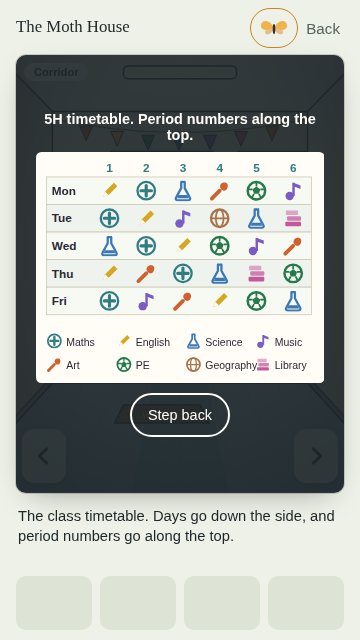
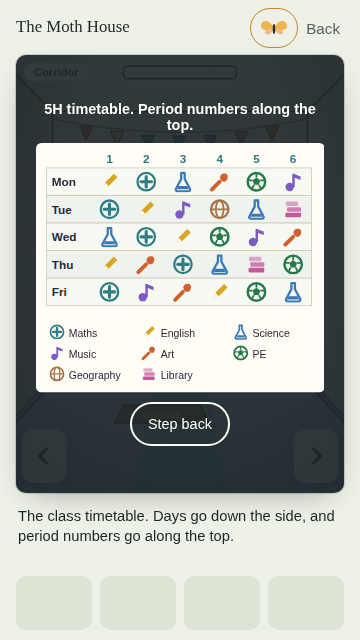
Space the timetable key; record the agreed art style and Nutmeg in the notes
Claude-Session: https://claude.ai/code/session_01Tpq9p1pV6JyvDnCWhBvDet

Changed region(s): [[0.0917, 0.1562, 0.9167, 0.7188]]

diff --git a/next/index.html b/next/index.html
@@ -910,7 +910,7 @@ table.tt td.day{font-weight:700;text-align:left;background:#eaf1ee}
 <!-- close-up: the timetable -->
 <div class="overlay closeup" id="ttUI" hidden>
   <p class="otitle">5H timetable. Period numbers along the top.</p>
-  <svg class="ttz" viewBox="0 0 220 176" aria-label="The class timetable, with a picture for each lesson"><rect width="220" height="176" rx="4" fill="#fffdf6"/><g id="tt"></g></svg>
+  <svg class="ttz" viewBox="0 0 220 190" aria-label="The class timetable, with a picture for each lesson"><rect width="220" height="190" rx="4" fill="#fffdf6"/><g id="tt"></g></svg>
   <button class="ob" data-close>Step back</button>
 </div>
 
@@ -1132,7 +1132,7 @@ $('ttWall').innerHTML = ttGrid(60, 148, 30, 26, 17, 13, 8);
 function openTimetable(){
   let key = '';
   Object.values(SUBJECT).forEach(([id,col,name],i) => {
-    const x = 8 + (i%4)*53, y = 138 + Math.floor(i/4)*18;
+    const x = 10 + (i%3)*70, y = 138 + Math.floor(i/3)*16;
     key += `<use href="#${id}" x="${x}" y="${y}" width="12" height="12" style="color:${col}"/><text x="${x+15}" y="${y+9.5}" font-size="8" fill="#2b2836" class="lbl">${name}</text>`;
   });
   $('tt').innerHTML = ttGrid(8, 6, 34, 28, 21, 16, 9) + key;

diff --git a/STORY.md b/STORY.md
@@ -50,6 +50,20 @@ The owner's rule for every room in the game:
 - **Close-ups** zoom into one object, such as reading a postcard or working a lock, with a button to step back.
 - A small label on the scene always says which room the player is in.
 
+## Visual style (agreed 28 Sept 2026)
+
+Drawn in code as SVG, to a polished flat-illustration standard. Rules for every wall:
+- **A box in one-point perspective:** ceiling, side walls, back wall and a floor band, drawn by the engine; the horizon sits low so the floor is a band, not a field.
+- **Ink outlines** on everything (heavier at the front), a shadow side on every object, cast shadows, one light source per wall, paper grain and a vignette over the whole picture.
+- **Lived in:** every room has ordinary clutter and life (pictures, plants, pets, shelves), which also gives clues places to hide.
+- **Everything tappable breathes** with a soft golden glow, the key item sparkles, and no tap target is smaller than a fingertip. Doors and hidden paper moths don't glow.
+- **The bottom corners of every wall stay clear** for the turn arrows, which sit in the floor band.
+- **Side-wall items** are angled gently and zoom when tapped.
+- **Clues are pictures where possible:** the timetable uses a coloured icon per subject, with a key in the close-up.
+- **Palette:** Singapore bright and tidy (cream and mint walls, pale wood, teal and purple accents, warm afternoon sun); Enfield and Trent Park in long golden evenings (deeper greens and browns); the Moth House in dusk blues with lantern glow.
+- **Type:** Caprasimo for titles, Atkinson Hyperlegible for game text, Caveat for handwriting.
+- **Clocks and details must match the story:** the classroom clock reads twenty to three, before the last bell at three.
+
 ## Characters
 
 - **Mary (10).** Notices patterns, reads everything.
@@ -58,7 +72,8 @@ The owner's rule for every room in the game:
 - **Nana.** Grandmother in Enfield. Always just "Nana". Warm, knows more than she says. Found the Moth House as a girl; the faded portrait in the Moth House is her.
 - **Jedi.** Grandfather in Enfield. Cheeky but lazy: always "just resting his eyes", bargains with biscuits, and takes the credit for everything the children do. Secretly on their side.
 - **Mum and Dad.** At home in Singapore. Each child sends them a postcard at the end of each stage.
-- **The moth.** A gentle guide whose wings glow like a night light. Gives hints. **TO DECIDE:** its name, or let each player name it.
+- **The moth.** A gentle guide whose wings glow like a night light. Gives hints from Enfield onwards (the Hint button). **TO DECIDE:** its name, or let each player name it.
+- **Nutmeg.** Class 5H's hamster. In Mary's school stage he is the hint-giver: tapping his cage gives the same three-step hints as the Hint button. Rule 3 of the class rules: feed Nutmeg once a day, never twice.
 - **The Moth House.** Appears at dusk to people who are looking. Each moth-light brought home wakes a room.
 
 ## The journey
@@ -86,8 +101,8 @@ Decided on 28 Sept 2026 (the owner left it to Claude):
 
 ### Stage 1: Last day of school — Knightsbrook International School — difficulty 3
 Built as a playable draft in `next/index.html`. Three rooms:
-- **Classroom 5H** (square, 4 views): whiteboard and Mr Hollis's desk; window and the class bean plants (quiet wall); door to the corridor and coat pegs; the class timetable above Mary's desk. She starts facing her desk.
-- **Corridor** (square, 4 views): the lockers (Mary's is the purple one); the library doors; the notice board with a bonus riddle card; the door back to 5H.
+- **Classroom 5H** (square, 4 views): whiteboard, supplies cupboard and Mr Hollis's desk; the window wall with the bean plants and a plane in the sky; door to the corridor, coat pegs and the lost-property box; the timetable wall with the class's paintings, a clock, a bookshelf, Nutmeg's cage on a cabinet, a plant, Mary's desk with the envelope, and her bag. Class rules and a world map hang on the side walls and zoom when tapped. She starts facing her desk.
+- **Corridor** (square, 4 views): the lockers (Mary's is the purple one) with certificates above and a bench; the library doors with a water fountain and the trophy cabinet; the notice board (summer fair, swimming gala, lost cat Biscuit, house points) with the bonus riddle card; the doors to 5H and 5K under bunting.
 - **Library** (long, 6 views): Science shelf and globe; Music shelf with a gap; window and beanbags (quiet wall); Art shelf and the returns trolley; Stories shelf; doors to the corridor and the librarian's desk ("Back soon!").
 
 Mr Hollis is Mary's (invented) teacher. Everyone else is at the goodbye party in the playground.

diff --git a/CLAUDE.md b/CLAUDE.md
@@ -32,7 +32,7 @@ The owner is a non-technical but AI-savvy builder working from a Chromebook. Exp
 - `manifest.webmanifest` — app name, colours, icons.
 - `sw.js` — network-first service worker: players get the latest version when online; the last version still works offline. Keep this behaviour.
 - `icon-192.png`, `icon-512.png` — moth icon (also used as maskable).
-- `next/index.html` — the children's version being built, not yet what players get. It opens on the choose-a-child screen (with the fiction notice under "About this game"). Mary's story page lists her stages; stage 1 (last day of school) and stage 2 (packing day) are playable as rough drafts; Elliot and Zaina are "coming soon". Each stage is one object in `STAGES` (for example `STAGE_SCHOOL`) with its `rooms` (each room's views in turning order), `doors` (door → room and view you arrive at), `start`, `items`, `uses`, `fresh` state, `draw`, `act`, `hints` and `ending`; the engine below them handles turning, doors, the inventory, hints and endings. Each view is a `<g class="view" id="v-…">` in the one SVG; hotspot `data-id`s must be unique across all stages (school ones start with `s_`). Close-ups are overlays inside `.stage`. Keep hotspots away from the middle of the left and right edges, where the turn arrows sit. Finished stages are saved per child in localStorage (`mothhouse.next.v1`). It doesn't register the service worker. When the launch rooms are ready, it replaces the live game.
+- `next/index.html` — the children's version being built, not yet what players get. It opens on the choose-a-child screen (with the fiction notice under "About this game"). Mary's story page lists her stages; stage 1 (last day of school, new art) and stage 2 (packing day, old art) are playable; Elliot and Zaina are "coming soon". Each stage is one object in `STAGES` (for example `STAGE_SCHOOL`) with its `rooms` (each room's views in turning order), `doors` (door → room and view you arrive at), `start`, `items`, `uses`, `fresh` state, `draw`, `act`, `hints` and `ending`; the engine below them handles turning, doors, the inventory, hints and endings. Each view is a `<g class="view" id="v-…">` in the one SVG; hotspot `data-id`s must be unique across all stages (school ones start with `s_`). Close-ups are overlays inside `.stage`. Keep hotspots away from the middle of the left and right edges, where the turn arrows sit. Finished stages are saved per child in localStorage (`mothhouse.next.v1`). It doesn't register the service worker. When the launch rooms are ready, it replaces the live game.
 - `STORY.md` — the story plan: characters, places, every scene with its puzzle map, rules for every chapter, open decisions.
 - `.well-known/assetlinks.json`, `.nojekyll` — Android app verification (see Launch status).
 
@@ -55,7 +55,7 @@ Interaction model: tap an object to look; tap an inventory item to select it, th
 
 ## Visual style
 
-The live room uses the style below. The children's version needs a warmer, brighter storybook look, with Singapore scenes bright and tidy and Enfield scenes lit by long summer evenings; agree the new palette and typeface with the owner before rebuilding.
+The children's version follows "Visual style" in `STORY.md` (agreed with the owner on 28 Sept 2026): rooms as perspective boxes drawn by the engine, ink outlines, shading, paper grain, lived-in rooms, breathing glows on tappables, arrows in the bottom corners. In `next/index.html`, a new-style view is `<g class="view" data-box="classroom" data-light="left">` and the engine adds the box; add new rooms to `BOXES`. The classroom and corridor are done; the library and the flat still use the old flat art below and are next to redraw. The live room (the old game) uses the style below.
 
 - Muted, uncanny, flat illustration. Olive moth-pattern wallpaper (#4b5037), dark wood (#4a352a, #3a2f28), brass (#a8844a), dusty rose rug (#5e3434), bone (#d9ccb0), candle glow (#f2c16b).
 - Typeface: IM Fell English (Google Fonts) with Georgia fallback. Sentence case, short, dry, unsettling copy.
